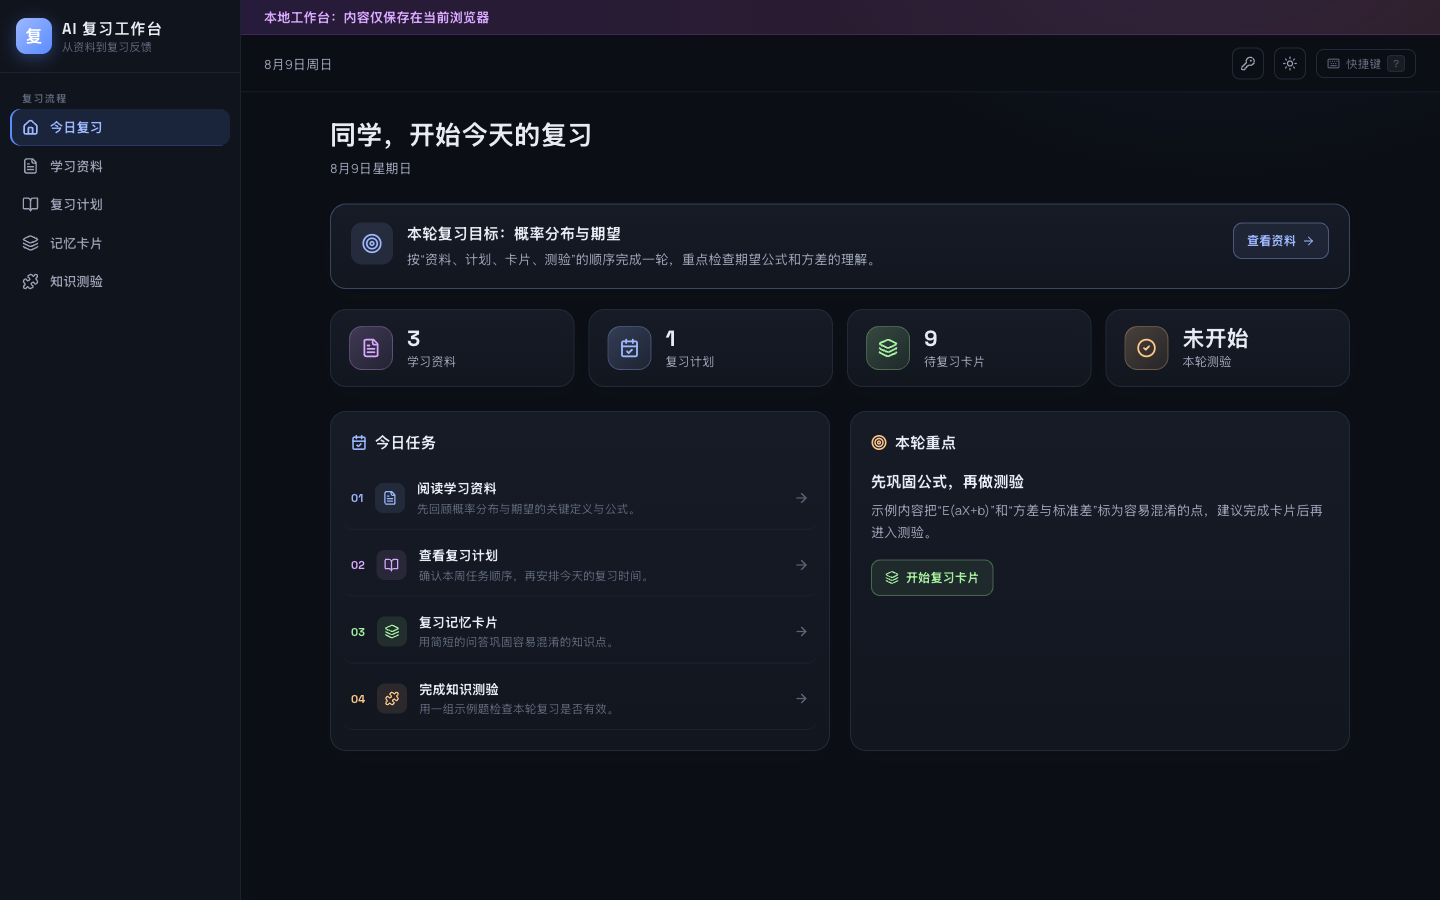
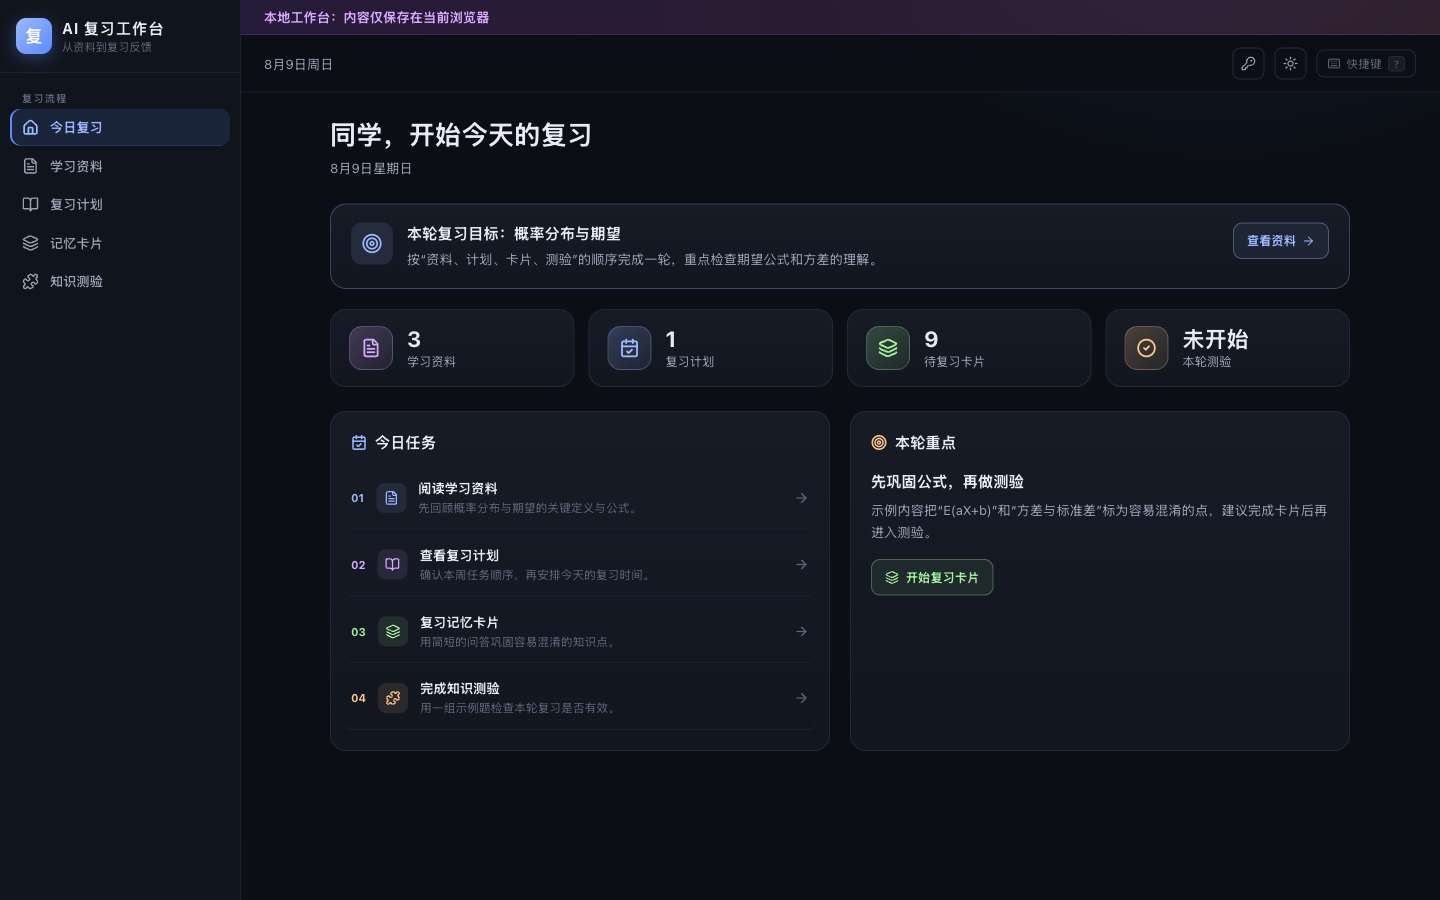
fix: remove external fonts and expand browser coverage

diff --git a/ai-review-workspace/e2e/github-pages.smoke.spec.js b/ai-review-workspace/e2e/github-pages.smoke.spec.js
@@ -2,9 +2,26 @@ import { expect, test } from '@playwright/test'
 
 const appPath = '/vibe-coding-lab/ai-review-workspace/'
 
-test('loads and refreshes focused routes below the GitHub Pages path', async ({ page }) => {
+async function navigateTo(page, label, isMobile) {
+  if (isMobile) await page.getByRole('button', { name: '打开菜单' }).click()
+  await page.getByRole('button', { name: label, exact: true }).click()
+}
+
+async function expectUsableViewport(page) {
+  const dimensions = await page.evaluate(() => ({
+    viewport: document.documentElement.clientWidth,
+    content: document.documentElement.scrollWidth,
+    rootChildren: document.querySelector('#root')?.childElementCount || 0,
+  }))
+
+  expect(dimensions.rootChildren).toBeGreaterThan(0)
+  expect(dimensions.content).toBeLessThanOrEqual(dimensions.viewport + 1)
+}
+
+test('completes the focused review loop below the GitHub Pages path', async ({ page }, testInfo) => {
   const failures = []
   const pageErrors = []
+  const isMobile = testInfo.project.name === 'mobile'
 
   page.on('response', (response) => {
     if (response.url().includes(appPath) && response.status() >= 400) {
@@ -18,15 +35,48 @@ test('loads and refreshes focused routes below the GitHub Pages path', async ({ 
 
   await page.goto(appPath)
   await expect(page).toHaveURL(new RegExp(`${appPath}#/home$`))
-  await expect(page.getByRole('heading', { name: /同学，开始今天的复习/ })).toBeVisible()
+  await expect(page.getByRole('heading', { name: '同学，开始今天的复习' })).toBeVisible()
+  await expectUsableViewport(page)
 
-  await page.goto(`${appPath}#/home`)
-  await expect(page.getByRole('heading', { name: /同学，开始今天的复习/ })).toBeVisible()
-
-  await page.goto(`${appPath}#/notes`)
-  await expect(page.getByRole('heading', { name: '学习资料' })).toBeVisible()
+  await navigateTo(page, '学习资料', isMobile)
+  await expect(page.getByRole('heading', { name: '学习资料', exact: true })).toBeVisible()
   await page.reload()
-  await expect(page.getByRole('heading', { name: '学习资料' })).toBeVisible()
+  await expect(page.getByRole('heading', { name: '学习资料', exact: true })).toBeVisible()
+  await expectUsableViewport(page)
+
+  await navigateTo(page, '复习计划', isMobile)
+  await expect(page.getByRole('heading', { name: '复习计划', exact: true })).toBeVisible()
+  await page.getByPlaceholder(/输入复习主题/).fill('端到端复习计划')
+  await page.getByRole('button', { name: '创建计划', exact: true }).click()
+  await expect(page.getByText('端到端复习计划').first()).toBeVisible()
+  await expectUsableViewport(page)
+
+  await navigateTo(page, '记忆卡片', isMobile)
+  await expect(page.getByRole('heading', { name: '记忆卡片', exact: true })).toBeVisible()
+  await page.getByRole('button', { name: '开始复习', exact: true }).first().click()
+  await expect(page.getByText('数学期望 E(X) 表示什么？')).toBeVisible()
+  await page.getByText('数学期望 E(X) 表示什么？').click()
+  await expect(page.getByText(/表示随机变量在大量重复试验中的平均结果/)).toBeVisible()
+  await page.getByRole('button', { name: /下一张/ }).click()
+  await expect(page.getByText('离散型随机变量的概率和必须满足什么条件？')).toBeVisible()
+  await expectUsableViewport(page)
+
+  await navigateTo(page, '知识测验', isMobile)
+  await expect(page.getByRole('heading', { name: '知识测验', exact: true })).toBeVisible()
+  await page.getByRole('button', { name: '开始测验', exact: true }).click()
+  await page.getByRole('button', { name: '0', exact: true }).click()
+  await expect(page.getByText('若 E(X)=3，E(2X+1) 等于多少？')).toBeVisible()
+  await page.getByRole('button', { name: '4', exact: true }).click()
+  await expect(page.getByText('下列哪项对方差的描述正确？')).toBeVisible()
+  await page.getByRole('button', { name: '方差等于标准差', exact: true }).click()
+  await expect(page.getByText('需要回看的知识点')).toBeVisible()
+  await expect(page.getByRole('heading', { name: '0 / 3' })).toBeVisible()
+  await expectUsableViewport(page)
+
+  await page.getByRole('button', { name: /查看下一步建议/ }).click()
+  await expect(page.getByText('测验反馈')).toBeVisible()
+  await expect(page.getByText(/优先回看/)).toBeVisible()
+  await expectUsableViewport(page)
 
   expect(failures).toEqual([])
   expect(pageErrors).toEqual([])

diff --git a/ai-review-workspace/src/styles/index.css b/ai-review-workspace/src/styles/index.css
@@ -66,7 +66,7 @@
   }
 
   html {
-    font-family: 'Manrope', system-ui, sans-serif;
+    font-family: -apple-system, BlinkMacSystemFont, "Segoe UI", "PingFang SC", "Microsoft YaHei", sans-serif;
     -webkit-font-smoothing: antialiased;
     -moz-osx-font-smoothing: grayscale;
     scroll-behavior: smooth;
@@ -77,7 +77,7 @@
   body {
     background-color: #0b0e14;
     color: #e8ebf4;
-    font-family: 'Manrope', sans-serif;
+    font-family: -apple-system, BlinkMacSystemFont, "Segoe UI", "PingFang SC", "Microsoft YaHei", sans-serif;
     min-height: 100vh;
     overflow-x: hidden;
   }
@@ -328,17 +328,17 @@
 
   /* ---- Typography helpers ---- */
   .heading-display {
-    font-family: 'Space Grotesk', sans-serif;
+    font-family: -apple-system, BlinkMacSystemFont, "Segoe UI", "PingFang SC", "Microsoft YaHei", sans-serif;
     font-weight: 700;
     letter-spacing: -0.02em;
   }
   .heading-500 {
-    font-family: 'Space Grotesk', sans-serif;
+    font-family: -apple-system, BlinkMacSystemFont, "Segoe UI", "PingFang SC", "Microsoft YaHei", sans-serif;
     font-weight: 500;
     letter-spacing: -0.01em;
   }
   .label-strong {
-    font-family: 'Space Grotesk', sans-serif;
+    font-family: -apple-system, BlinkMacSystemFont, "Segoe UI", "PingFang SC", "Microsoft YaHei", sans-serif;
     font-weight: 700;
     text-transform: uppercase;
     letter-spacing: 0.08em;
@@ -350,7 +350,7 @@
     border: none;
     border-bottom: 2px solid rgba(66, 71, 84, 0.50);
     color: #dfe2eb;
-    font-family: 'Manrope', sans-serif;
+    font-family: -apple-system, BlinkMacSystemFont, "Segoe UI", "PingFang SC", "Microsoft YaHei", sans-serif;
     font-weight: 500;
     padding: 0.75rem 1rem;
     transition: border-color 0.2s, box-shadow 0.2s;
@@ -370,7 +370,7 @@
 
   /* ---- Button base ---- */
   .btn-primary-sa {
-    font-family: 'Space Grotesk', sans-serif;
+    font-family: -apple-system, BlinkMacSystemFont, "Segoe UI", "PingFang SC", "Microsoft YaHei", sans-serif;
     font-weight: 600;
     font-size: 0.875rem;
     letter-spacing: 0.04em;
@@ -390,7 +390,7 @@
   }
 
   .btn-ghost-sa {
-    font-family: 'Space Grotesk', sans-serif;
+    font-family: -apple-system, BlinkMacSystemFont, "Segoe UI", "PingFang SC", "Microsoft YaHei", sans-serif;
     font-weight: 600;
     font-size: 0.875rem;
     letter-spacing: 0.04em;
@@ -407,7 +407,7 @@
   }
 
   .btn-tertiary-sa {
-    font-family: 'Space Grotesk', sans-serif;
+    font-family: -apple-system, BlinkMacSystemFont, "Segoe UI", "PingFang SC", "Microsoft YaHei", sans-serif;
     font-weight: 600;
     font-size: 0.875rem;
     letter-spacing: 0.04em;

diff --git a/ai-review-workspace/src/components/ErrorBoundary.jsx b/ai-review-workspace/src/components/ErrorBoundary.jsx
@@ -1,5 +1,8 @@
 import { Component } from 'react'
 import { RefreshCw } from 'lucide-react'
+import { fonts } from '../utils/theme'
+
+const systemMono = "ui-monospace, 'SFMono-Regular', Consolas, monospace"
 
 export default class ErrorBoundary extends Component {
   constructor(props) {
@@ -30,7 +33,7 @@ export default class ErrorBoundary extends Component {
           border: '1px solid rgba(255,77,106,0.3)',
           display: 'flex', alignItems: 'center', gap: 10,
         }}>
-          <span style={{ fontFamily: 'VT323', fontSize: 15, color: '#ff4d6a' }}>
+          <span style={{ fontFamily: systemMono, fontSize: 15, color: '#ff4d6a' }}>
             Component error — refresh to try again
           </span>
           <button
@@ -56,10 +59,10 @@ export default class ErrorBoundary extends Component {
         }}>
           <span style={{ color: '#fff', fontSize: 24 }}>栞</span>
         </div>
-        <p style={{ fontFamily: '"Press Start 2P"', fontSize: 11, color: '#ff4d6a' }}>
+        <p style={{ fontFamily: fonts.heading, fontSize: 11, fontWeight: 700, color: '#ff4d6a' }}>
           SOMETHING WENT WRONG
         </p>
-        <p style={{ fontFamily: 'VT323', fontSize: 16, color: '#606080', maxWidth: 400, textAlign: 'center' }}>
+        <p style={{ fontFamily: systemMono, fontSize: 16, color: '#606080', maxWidth: 400, textAlign: 'center' }}>
           {this.state.error?.message || 'An unexpected error occurred.'}
         </p>
         <button
@@ -67,7 +70,7 @@ export default class ErrorBoundary extends Component {
           style={{
             padding: '10px 20px', borderRadius: 8, cursor: 'pointer',
             background: 'rgba(196,77,255,0.15)', border: '1px solid rgba(196,77,255,0.4)',
-            color: '#c44dff', fontFamily: '"Press Start 2P"', fontSize: 9,
+            color: '#c44dff', fontFamily: fonts.heading, fontSize: 9, fontWeight: 700,
             display: 'flex', alignItems: 'center', gap: 6,
           }}
         >

diff --git a/ai-review-workspace/src/components/ToastContainer.jsx b/ai-review-workspace/src/components/ToastContainer.jsx
@@ -1,6 +1,6 @@
 import { motion, AnimatePresence } from 'framer-motion'
 import { useUIStore } from '../stores'
-import { C } from '../utils/theme'
+import { C, fonts } from '../utils/theme'
 
 const STYLES = {
   success: { color: C.greenDark, border: 'rgba(77,255,145,0.4)', icon: '✓' },
@@ -30,7 +30,7 @@ const ToastContainer = () => {
                 background: C.card, border: `1px solid ${s.border}`,
                 borderRadius: 12, padding: '12px 14px',
                 boxShadow: '0 12px 32px rgba(0,0,0,0.5)',
-                fontFamily: "'Manrope', sans-serif", fontSize: 13, color: C.text,
+                fontFamily: fonts.body, fontSize: 13, color: C.text,
               }}
             >
               <span style={{ color: s.color, fontWeight: 700, flexShrink: 0, marginTop: 1 }}>{s.icon}</span>

diff --git a/ai-review-workspace/src/pages/Demo.jsx b/ai-review-workspace/src/pages/Demo.jsx
@@ -1,6 +1,7 @@
 import { useEffect } from 'react'
 import { useNavigate } from 'react-router'
 import { initializeDemoWorkspace } from './demoWorkspace'
+import { fonts } from '../utils/theme'
 
 export default function Demo() {
   const navigate = useNavigate()
@@ -13,7 +14,7 @@ export default function Demo() {
   return (
     <div style={{
       minHeight: '100vh', display: 'flex', alignItems: 'center', justifyContent: 'center',
-      background: '#0b0e14', color: '#e8ebf4', fontFamily: "'Space Grotesk', sans-serif", fontSize: 15,
+      background: '#0b0e14', color: '#e8ebf4', fontFamily: fonts.body, fontSize: 15,
     }}>
       <div style={{ textAlign: 'center' }}>
         <div className="pulse" style={{

diff --git a/ai-review-workspace/pages-static.test.js b/ai-review-workspace/pages-static.test.js
@@ -17,6 +17,8 @@ describe('Pages static entrypoints', () => {
     expect(index).toContain(pagesUrl)
     expect(index).not.toContain('ai-review-workspace.vercel.app')
     expect(index).not.toContain('shiorii.tech')
+    expect(index).not.toContain('fonts.googleapis.com')
+    expect(index).not.toContain('fonts.gstatic.com')
     expect(manifest.start_url).toBe('./#/home')
     expect(manifest.icons[0].src).toBe('./favicon.svg')
     expect(manifest.shortcuts.map(shortcut => shortcut.url)).toEqual(['./#/notes', './#/flashcards', './#/quiz'])

diff --git a/ai-review-workspace/index.html b/ai-review-workspace/index.html
@@ -51,9 +51,6 @@
       ]
     }
     </script>
-    <link rel="preconnect" href="https://fonts.googleapis.com">
-    <link rel="preconnect" href="https://fonts.gstatic.com" crossorigin>
-    <link href="https://fonts.googleapis.com/css2?family=Press+Start+2P&family=Space+Grotesk:wght@300;400;500;600;700&family=Manrope:wght@300;400;500;600;700;800&family=VT323&display=swap" rel="stylesheet">
   </head>
   <body>
     <div id="root"></div>

diff --git a/ai-review-workspace/playwright.config.js b/ai-review-workspace/playwright.config.js
@@ -14,6 +14,10 @@ export default defineConfig({
       ? { launchOptions: { executablePath: process.env.PLAYWRIGHT_CHROMIUM_EXECUTABLE } }
       : {}),
   },
+  projects: [
+    { name: 'desktop', use: { viewport: { width: 1440, height: 900 } } },
+    { name: 'mobile', use: { viewport: { width: 390, height: 844 } } },
+  ],
   webServer: {
     command: 'node scripts/serve-dist.mjs',
     url: `http://127.0.0.1:${port}${appPath}`,

diff --git a/ai-review-workspace/src/utils/theme.js b/ai-review-workspace/src/utils/theme.js
@@ -17,9 +17,11 @@ const LIGHT_COLORS = {
 
 export const C = { ...DARK_COLORS }
 
+const systemSans = "-apple-system, BlinkMacSystemFont, 'Segoe UI', 'PingFang SC', 'Microsoft YaHei', sans-serif"
+
 export const fonts = {
-  heading: "'Space Grotesk', sans-serif",
-  body: "'Manrope', sans-serif",
+  heading: systemSans,
+  body: systemSans,
 }
 
 export const radius = { sm: 8, md: 12, lg: 16, xl: 20, pill: 999 }
